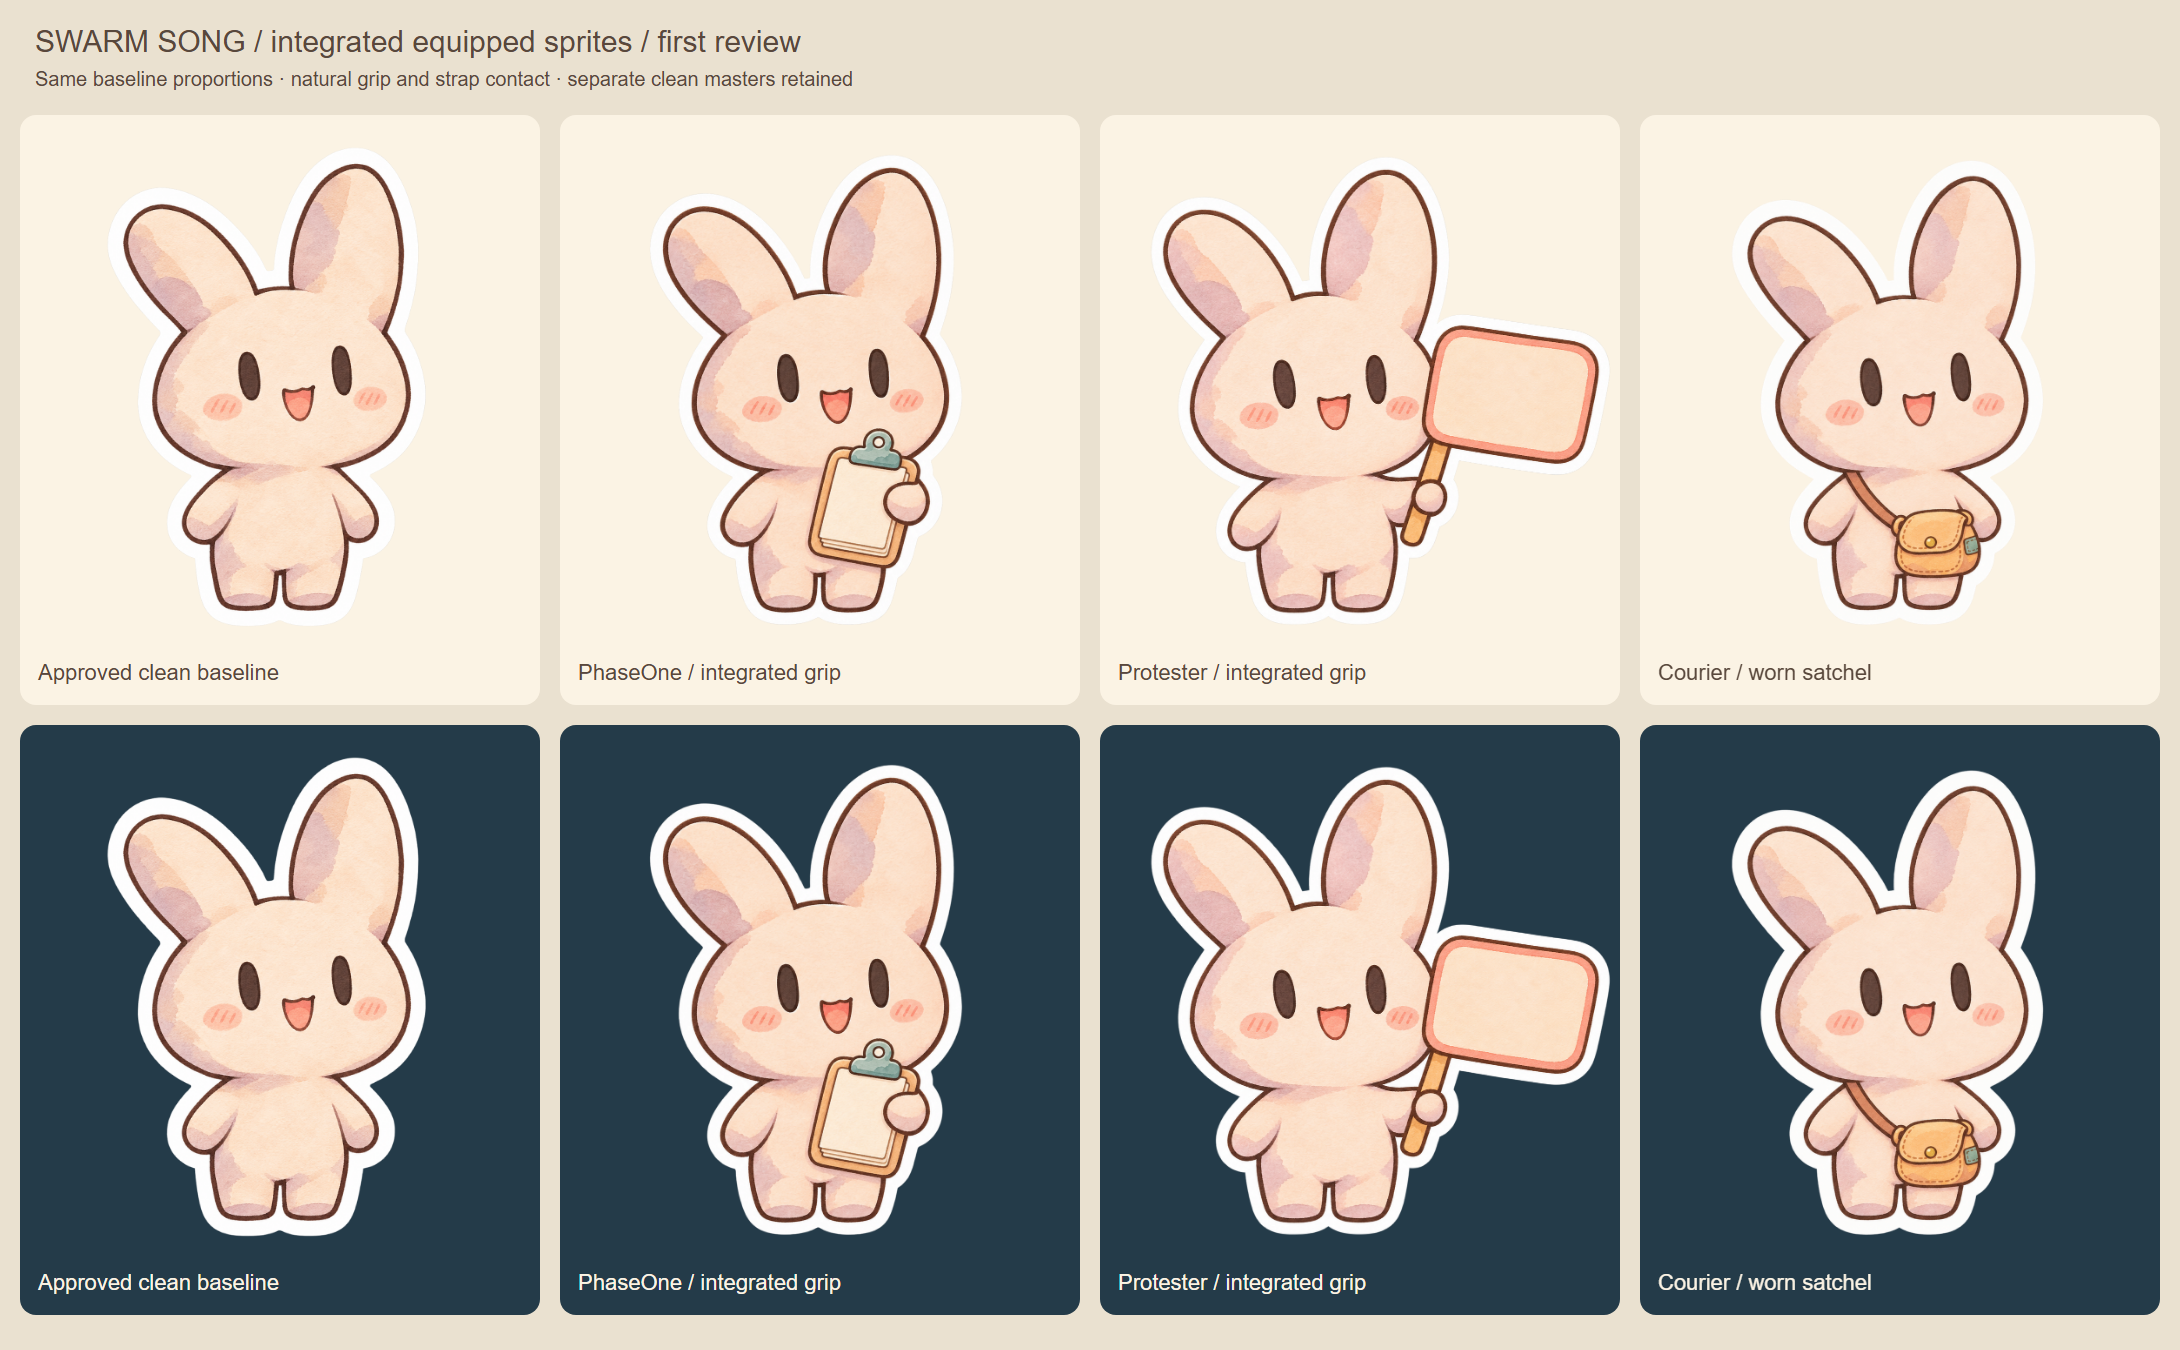
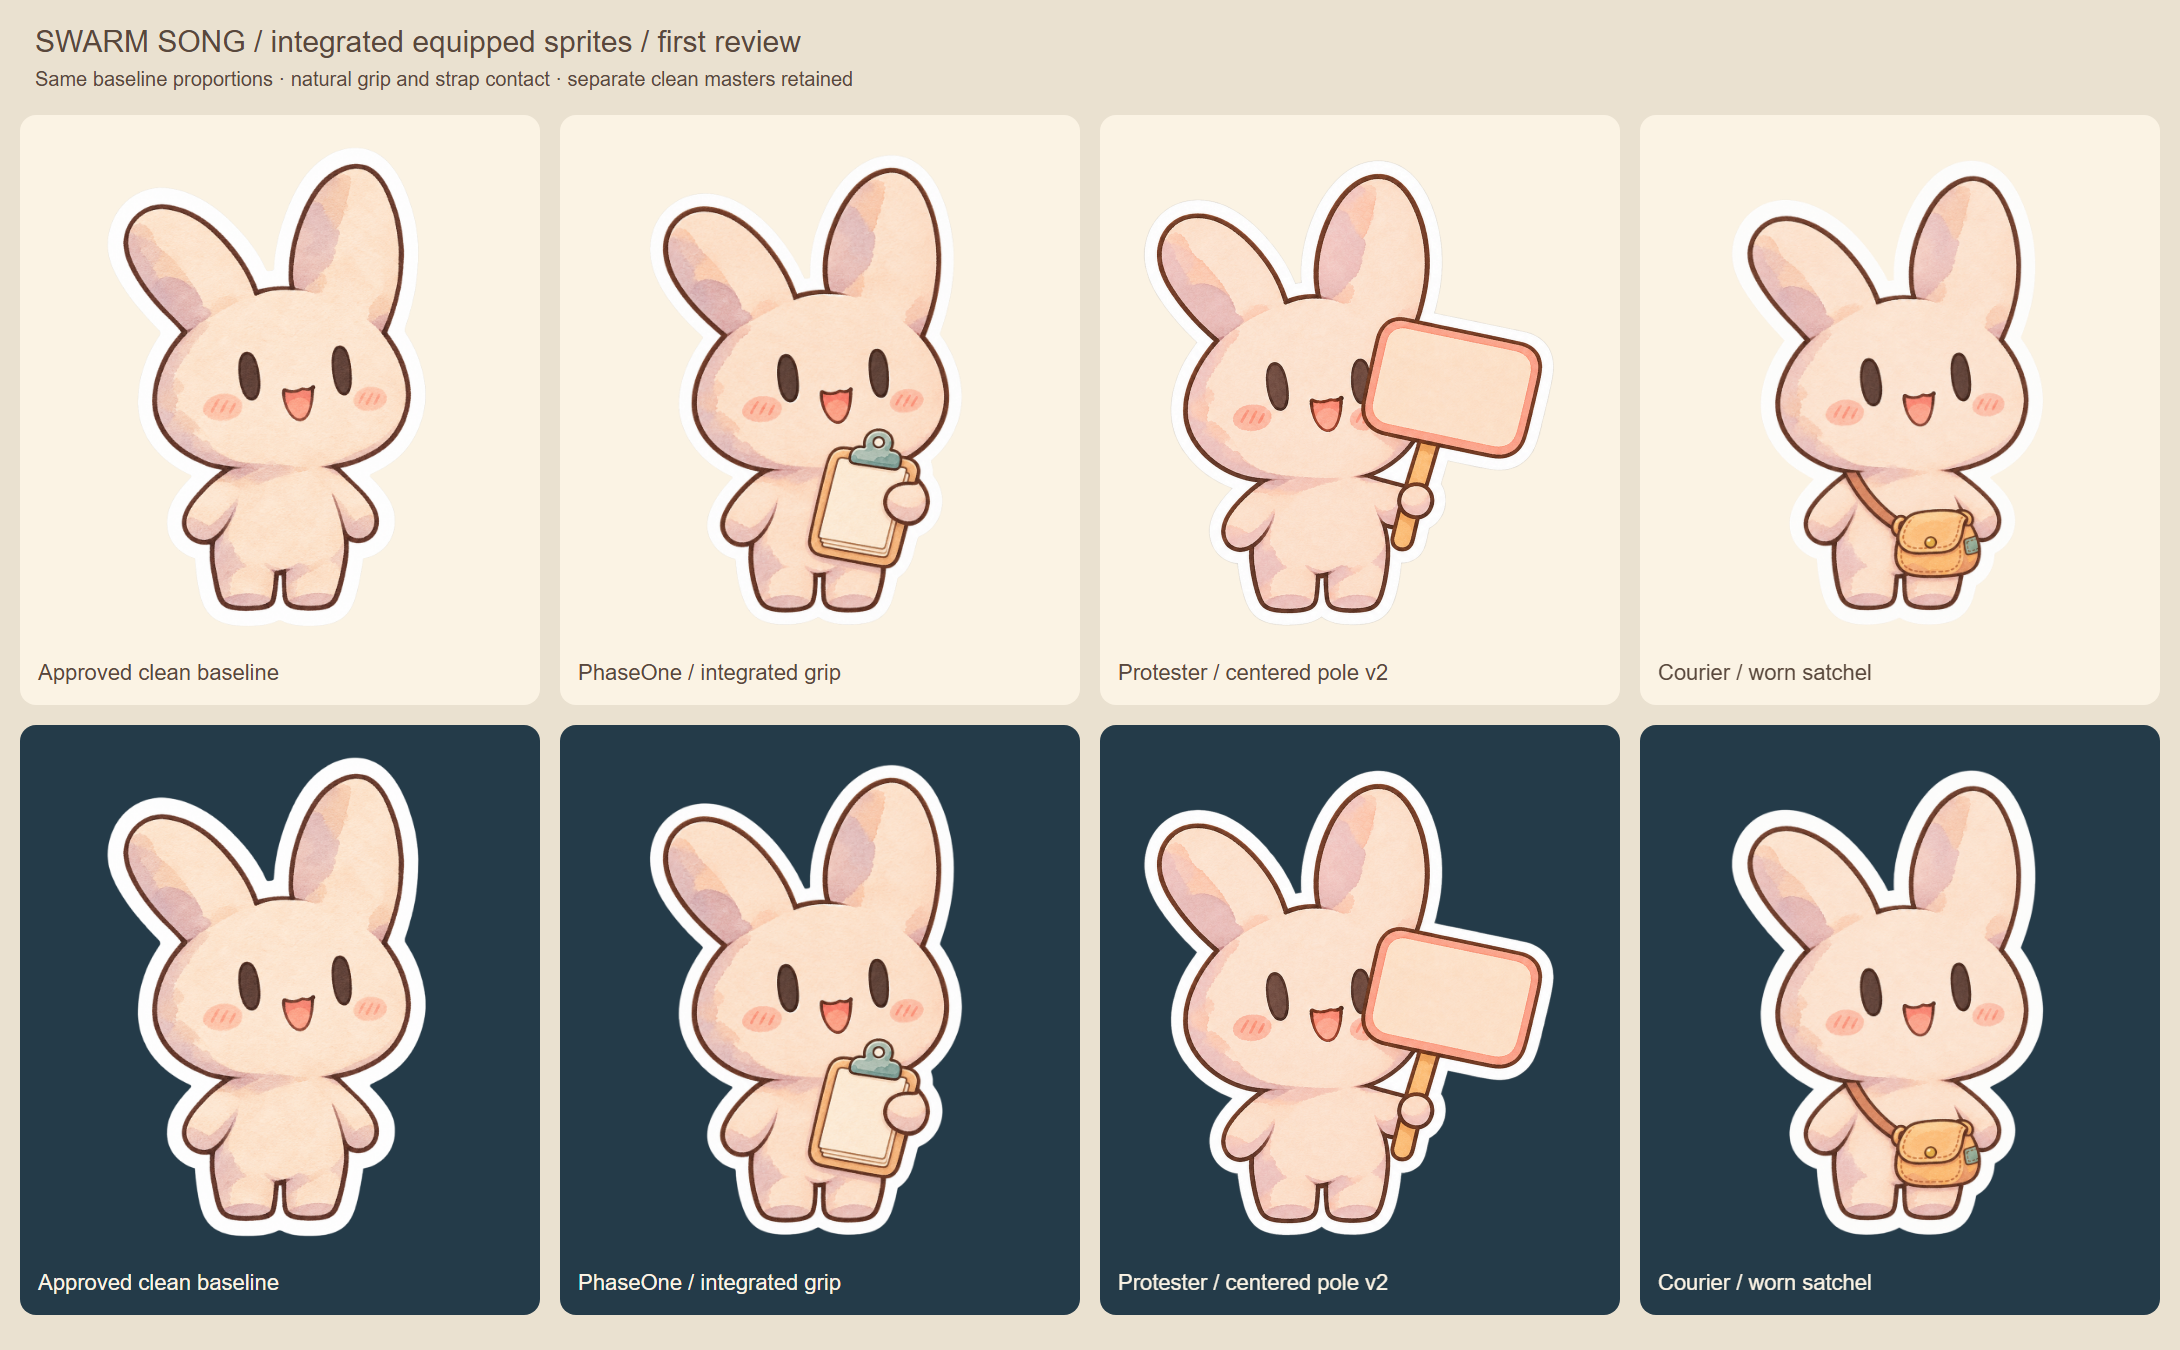
Center protester sign pole and refresh equipped sprite review

diff --git a/scripts/supporting-cast-review.tsx b/scripts/supporting-cast-review.tsx
@@ -54,7 +54,7 @@ const Props=()=> <AbsoluteFill style={{background:'#eae1d0',fontFamily:'Arial, s
 const equipped = [
   {name:'Approved clean baseline',src:'characters/agent407/standing-v1.png',w:1400,h:1500,scale:.39,x:693,y:1363},
   {name:'PhaseOne / integrated grip',src:'characters/equipped-v1/phaseone-standing-v1.png',w:1412,h:1498,scale:.435,x:700,y:1284},
-  {name:'Protester / integrated grip',src:'characters/equipped-v1/protester-standing-v1.png',w:1516,h:1395,scale:.435,x:610,y:1218},
+  {name:'Protester / centered pole v2',src:'characters/equipped-v1/protester-standing-v2.png',w:1508,h:1402,scale:.50,x:640,y:1151},
   {name:'Courier / worn satchel',src:'characters/equipped-v1/courier-standing-v1.png',w:1412,h:1498,scale:.435,x:700,y:1287},
 ];
 const Equipped=()=> <AbsoluteFill style={{background:'#eae1d0',fontFamily:'Arial, sans-serif',color:'#59483c'}}>

diff --git a/assets/characters/equipped-v1/README.md b/assets/characters/equipped-v1/README.md
@@ -1,5 +1,7 @@
 # Integrated equipment — first standing review
 
+**Protester v2 correction:** the pole now joins the center of the plaque's lower edge. The user explicitly permits slight face overlap and sign tilt for natural construction. `protester-standing-v2.png` supersedes v1 in the review sheet; v1 remains archived. The v2 native master is 1308×1202; its exact edit prompt is in `protester-v2-prompt.json`. The sign remains blank and slightly overlaps the right cheek/eye edge.
+
 User-approved production approach (November 13, 2026): standalone props remain their best presentation for discovery, pickup and handoff. Once worn/held, use a separate illustrated equipped copy of the baseline character, with perspective, grip and occlusion integrated. Clean masters are never replaced. This supersedes the earlier assumption that every worn prop must remain a runtime overlay.
 
 This first review contains PhaseOne holding a clipboard, the Ethical Protester holding a blank placard, and the Courier wearing a satchel. One standing pose each, no goggles. New equipped artwork awaits visual approval before multiplying poses or beginning the chorus. The previous mechanical fitting study remains archived under `assets/accessories/supporting-v1/`.
